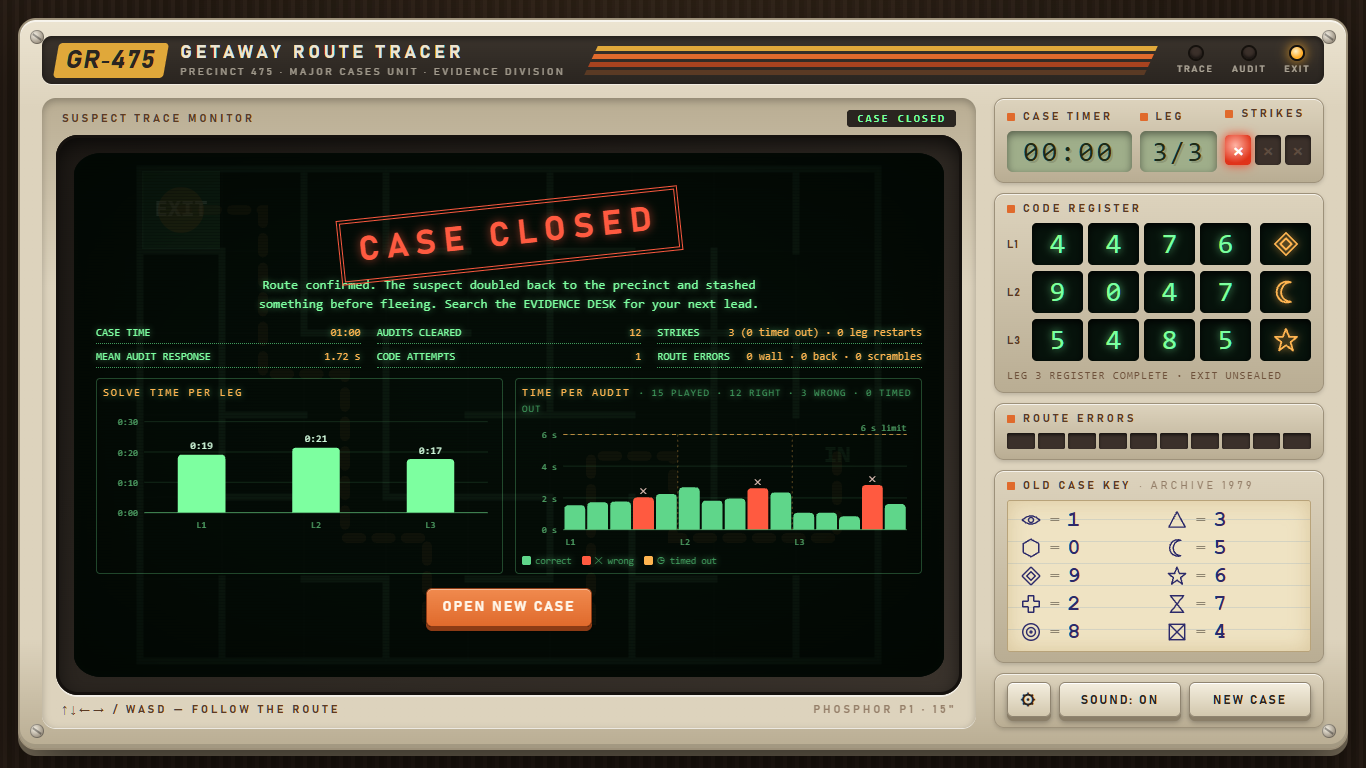
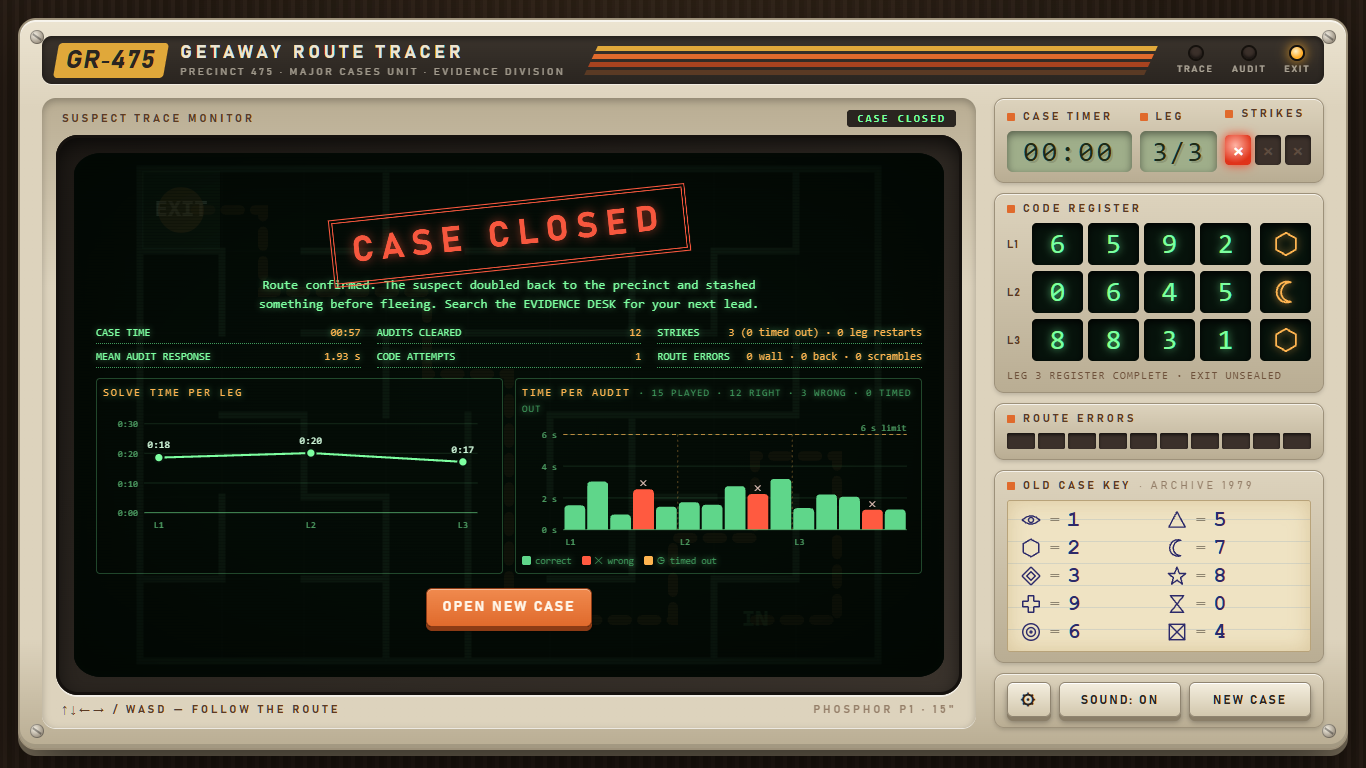
Show solve time per leg as a line chart

diff --git a/js/charts.js b/js/charts.js
@@ -36,24 +36,26 @@
     return g;
   }
 
-  // Chart 1: time to solve each leg (ms). restarts[i] = how often leg i was restarted.
+  // Chart 1: time to solve each leg (ms), as a line. restarts[i] = how often leg i was restarted.
   function legChart(legMs, restarts, opts) {
     const o = Object.assign({ width: 300, height: 150 }, opts || {});
-    const W = o.width, H = o.height, pad = { t: 18, r: 8, b: 22, l: 40 };
+    const W = o.width, H = o.height, pad = { t: 20, r: 18, b: 22, l: 40 };
     const t = ticks(Math.max(...legMs, 1) / 1000);
     const n = Math.max(legMs.length, 1);
-    const slot = (W - pad.l - pad.r) / n;
-    const bw = Math.min(46, slot * 0.6);
+    const xOf = (i) => (n === 1 ? (pad.l + W - pad.r) / 2 : pad.l + 14 + ((W - pad.l - pad.r - 28) * i) / (n - 1));
+    const yOf = (ms) => pad.t + (H - pad.t - pad.b) * (1 - ms / 1000 / t.top);
     let svg = frame(W, H, pad, t, (v) => fmtClock(v * 1000));
-    legMs.forEach((ms, i) => {
-      const h = (H - pad.t - pad.b) * (ms / 1000 / t.top);
-      const x = pad.l + slot * i + (slot - bw) / 2, y = H - pad.b - h;
-      const rs = (restarts && restarts[i]) || 0;
-      svg += bar(x, y, bw, h, "ch-leg", "Leg " + (i + 1) + ": " + fmtClock(ms) + (rs ? " (" + rs + " restart" + (rs > 1 ? "s" : "") + ")" : ""));
-      svg += '<text class="ch-val" x="' + (x + bw / 2) + '" y="' + (y - 5) + '" text-anchor="middle">' + fmtClock(ms) + (rs ? " ↻" + rs : "") + "</text>";
-      svg += '<text class="ch-axis" x="' + (x + bw / 2) + '" y="' + (H - 7) + '" text-anchor="middle">L' + (i + 1) + "</text>";
-    });
     svg += '<line class="ch-base" x1="' + pad.l + '" x2="' + (W - pad.r) + '" y1="' + (H - pad.b) + '" y2="' + (H - pad.b) + '"/>';
+    const pts = legMs.map((ms, i) => [xOf(i), yOf(ms)]);
+    if (pts.length > 1) svg += '<polyline class="ch-line" points="' + pts.map((p) => p[0].toFixed(1) + "," + p[1].toFixed(1)).join(" ") + '"/>';
+    legMs.forEach((ms, i) => {
+      const [x, y] = pts[i];
+      const rs = (restarts && restarts[i]) || 0;
+      const title = "Leg " + (i + 1) + ": " + fmtClock(ms) + (rs ? " (" + rs + " restart" + (rs > 1 ? "s" : "") + ")" : "");
+      svg += '<g class="ch-pt"><circle class="ch-hit" cx="' + x + '" cy="' + y + '" r="12"/><circle class="ch-dot" cx="' + x + '" cy="' + y + '" r="4.5"/><title>' + esc(title) + "</title></g>";
+      svg += '<text class="ch-val" x="' + x + '" y="' + (y - 9) + '" text-anchor="middle">' + fmtClock(ms) + (rs ? " ↻" + rs : "") + "</text>";
+      svg += '<text class="ch-axis" x="' + x + '" y="' + (H - 7) + '" text-anchor="middle">L' + (i + 1) + "</text>";
+    });
     return '<svg class="chart" viewBox="0 0 ' + W + " " + H + '" role="img" aria-label="Solve time per leg">' + svg + "</svg>";
   }
 

diff --git a/tests/unit.test.js b/tests/unit.test.js
@@ -284,9 +284,11 @@ test("practice explanations name the right answer and exhibit for every rule", (
 // ---------------------------------------------------------------------------
 const CHARTS = require("../js/charts.js");
 
-test("leg chart draws one bar per leg with its time", () => {
+test("leg chart is a line with one point per leg and its time", () => {
   const svg = CHARTS.legChart([95000, 62000, 130500], [0, 1, 0]);
-  assert.equal((svg.match(/class="ch-leg"/g) || []).length, 3);
+  assert.equal((svg.match(/class="ch-dot"/g) || []).length, 3);
+  assert.equal((svg.match(/<polyline class="ch-line" points="[^"]+"/g) || []).length, 1, "one connecting line");
+  assert.equal(svg.match(/points="([^"]+)"/)[1].trim().split(" ").length, 3, "the line passes through every leg");
   for (const t of ["1:35", "1:02", "2:10"]) assert.ok(svg.includes(t), "shows " + t);
   assert.ok(svg.includes("1 restart"), "notes leg restarts");
 });

diff --git a/css/style.css b/css/style.css
@@ -536,3 +536,9 @@ textarea.set-input { width: 100%; resize: vertical; font-size: 12px; }
 .closed-grid .stats tr { display: flex; justify-content: space-between; gap: 8px; border-bottom: 1px dotted var(--phosphor-dim); }
 .closed-grid .stats td { border: 0; padding: 2px 0; white-space: nowrap; font-size: 11px; }
 .closed-term .key { margin-top: 2px; }
+
+/* Leg chart: line with point markers */
+.chart .ch-line { fill: none; stroke: #7dffa0; stroke-width: 2; stroke-linejoin: round; }
+.chart .ch-dot { fill: #7dffa0; stroke: #06120b; stroke-width: 2; }
+.chart .ch-hit { fill: transparent; }
+.chart .ch-pt:hover .ch-dot { r: 6; }

diff --git a/README.md b/README.md
@@ -72,7 +72,7 @@ Rules are dealt like a **deck of cards**: each of the 8 rules is used once befor
 
 **Skip practice** (for a group that has already practised): open `index.html?skippractice`.
 
-**Charts:** the Case Closed screen has two charts. **Solve time per leg** shows how long each leg took from its start to its exit (including any restarts, marked ↻). **Time per audit** shows every audit played, in order, split by leg: green = correct, red with ✕ = wrong, amber with ◷ = timed out, with the time limit as a dashed line and a count of audits played, right, wrong and timed out. Hover a bar for its exact time.
+**Charts:** the Case Closed screen has two charts. **Solve time per leg** is a line chart with one point per leg: how long each leg took from its start to its exit (including any restarts, marked ↻). **Time per audit** shows every audit played, in order, split by leg: green = correct, red with ✕ = wrong, amber with ◷ = timed out, with the time limit as a dashed line and a count of audits played, right, wrong and timed out. Hover a bar for its exact time.
 
 ![Case Closed with charts](docs/case-closed.png)
 
@@ -136,6 +136,7 @@ To build locally (needs Node.js): `npm install`, then `npm run dist:win` (on Win
 
 ## Changelog
 
+- **v1.0.5** The solve-time-per-leg chart is now a line chart.
 - **v1.0.4** Reaching the exit before a leg's audits are done now brings the remaining audits back to back (0.3 s apart) instead of every 1 to 2.5 s.
 - **v1.0.3** Case Closed screen adds two charts: solve time per leg, and time per audit (every audit played, coloured and marked by outcome, with the total played). Stats now sit in a compact strip above the charts.
 - **v1.0.2** Fixed: a correct answer could be judged wrong. After a miss, the old exhibits stayed on screen until new ones swapped in, so a key typed for the old exhibits was checked against the new ones (a false strike). New exhibits now ignore input for 0.4 s, and after a miss the old exhibits are greyed out with the right one highlighted and the answer explained ("ANSWER: 0. The smallest of 6 8 4 0 3 is 0 (Exhibit D)"). Every audit verdict is logged to the console (F12). Route errors (wall hit or doubling back) now glitch the screen, shake the console, flash the maze walls red for about a second, and play a much louder static-and-alarm sound. Browser test section 9 reproduces the timing bug.
